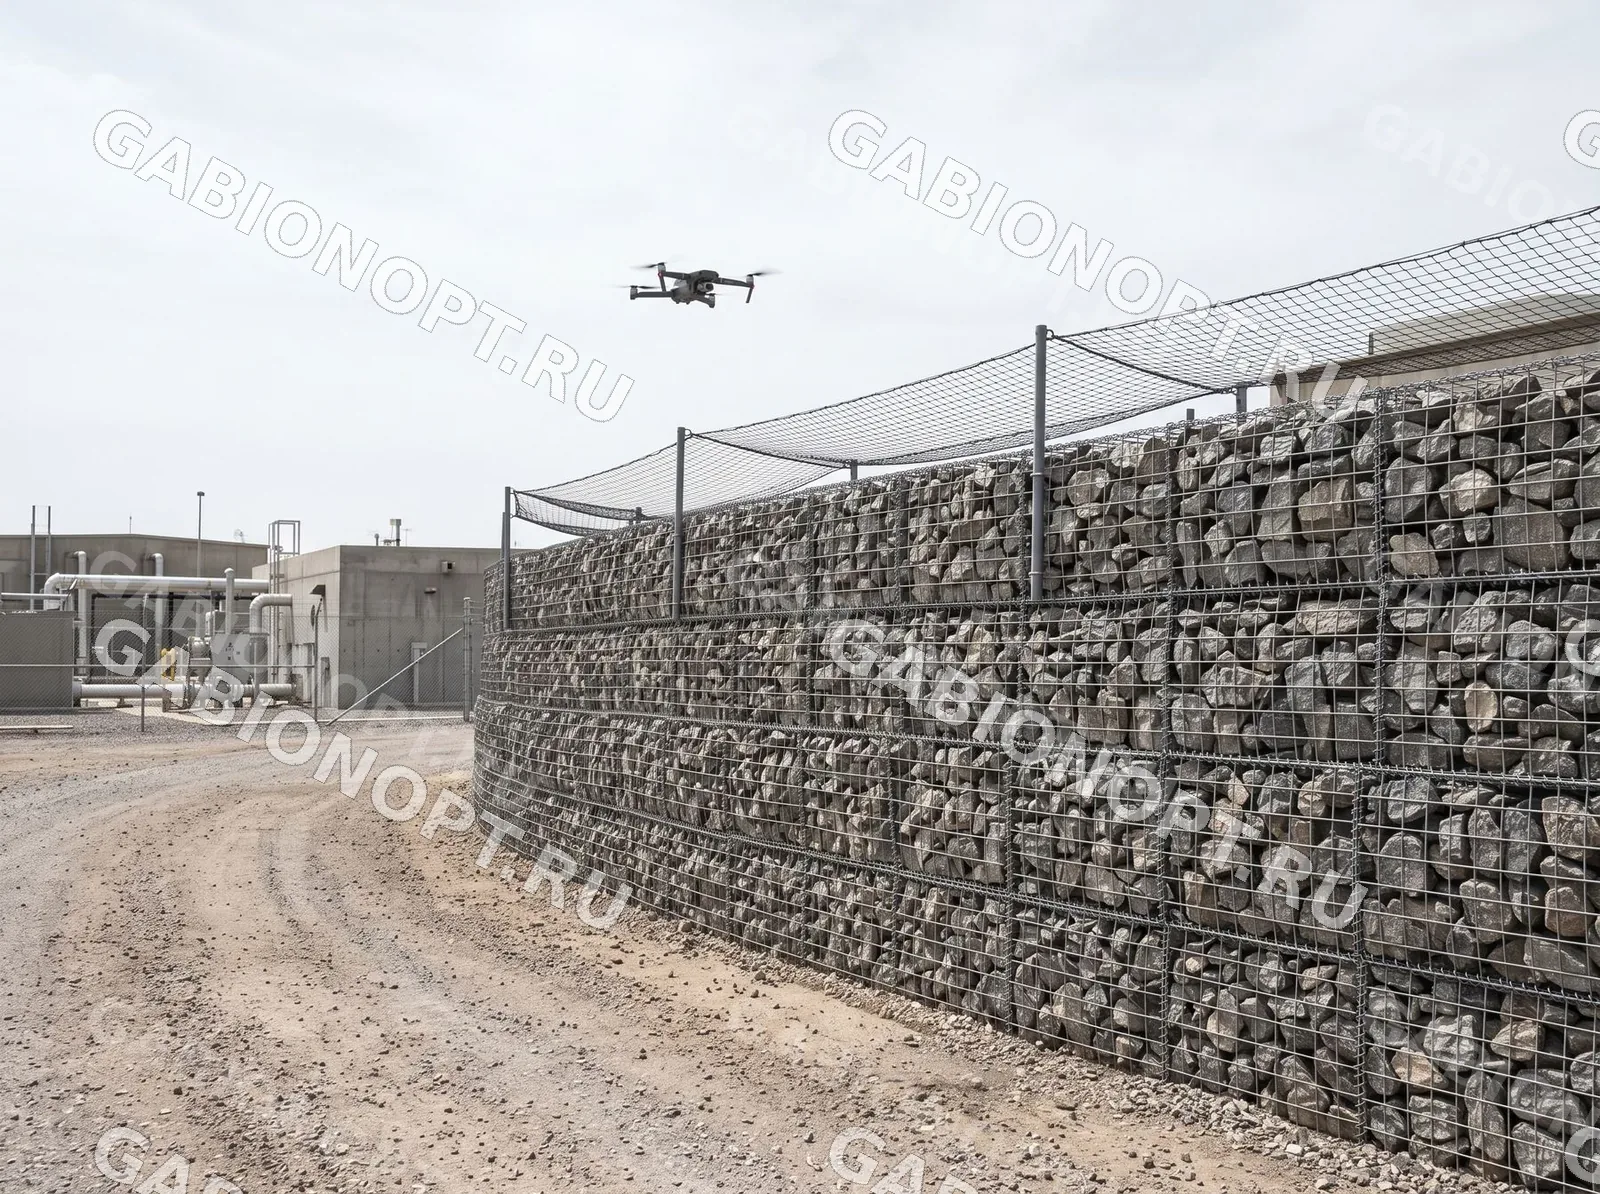
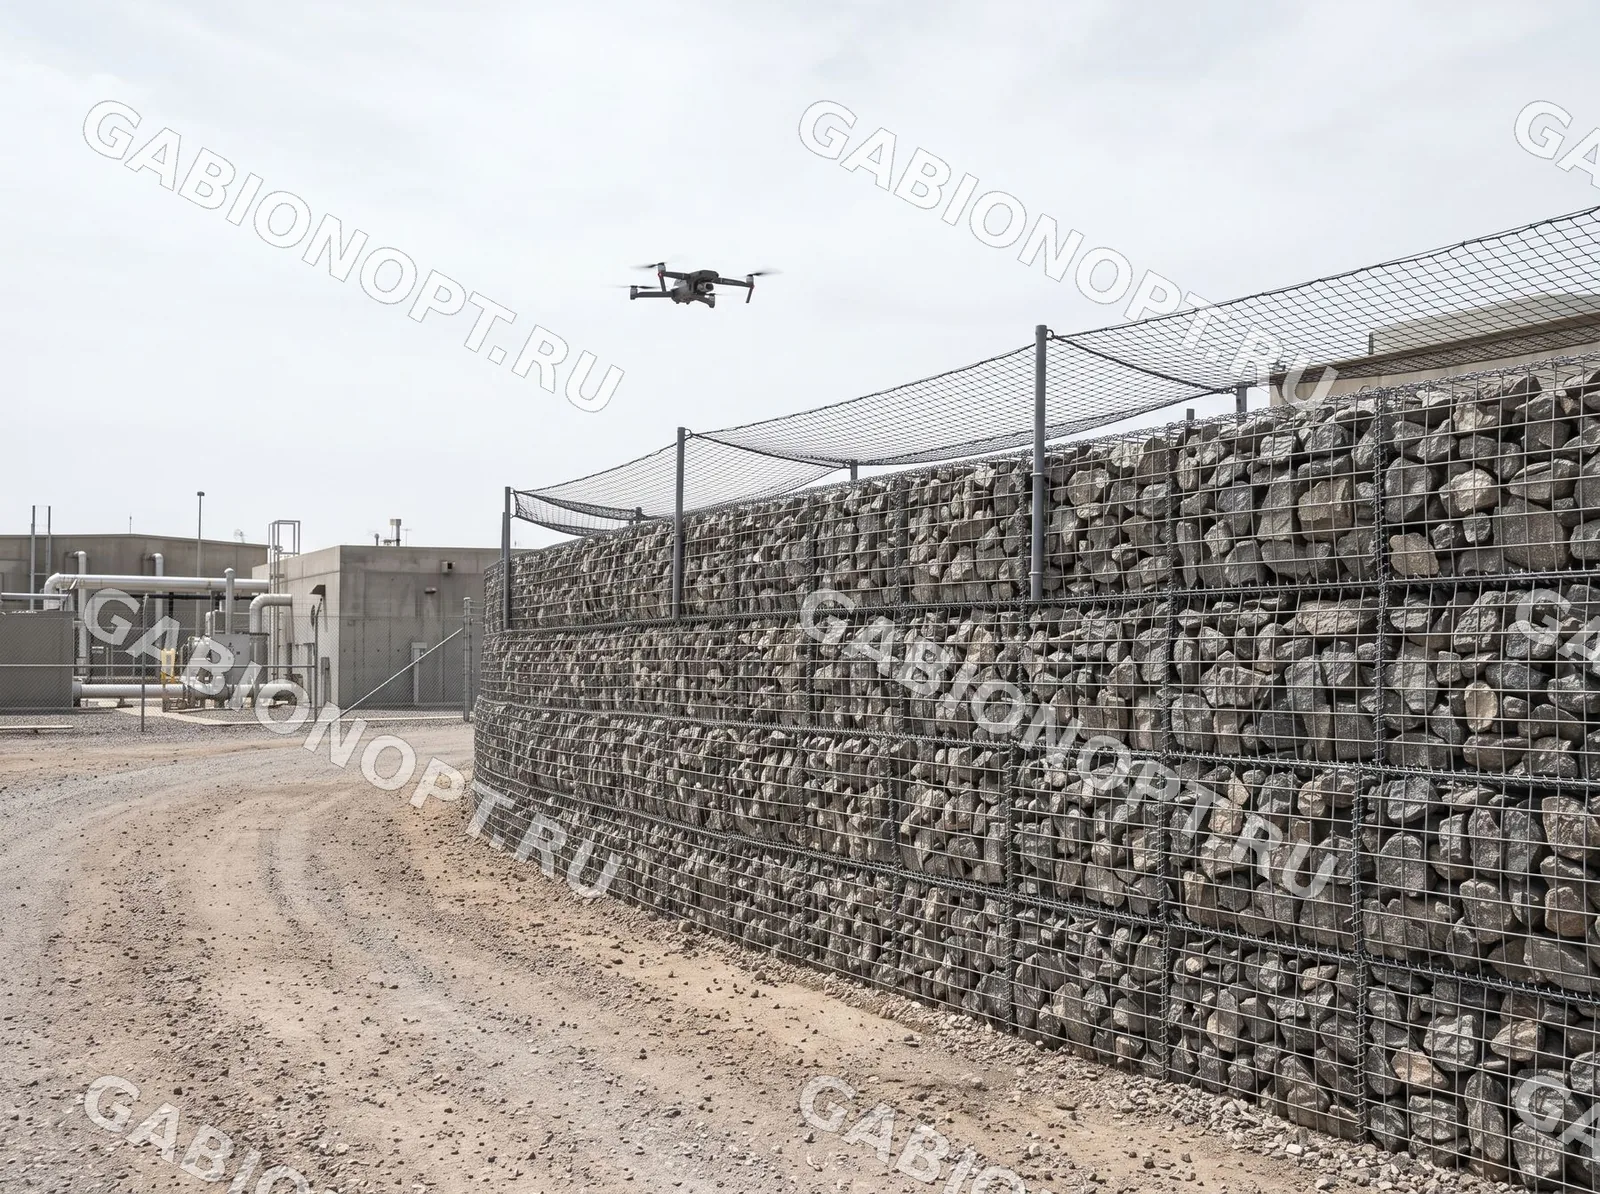
Fix double-watermark bug on setka photos, add photos for remaining 3 setka subcats (all 5 now covered)

diff --git a/assets/catalog.js b/assets/catalog.js
@@ -464,20 +464,22 @@
     "shestipryadnaya-svivka": { src: "images/rope-shestipryadnaya.png", alt: "Схема сечения троса шестипрядной свивки 6×7" }
   };
   var GABION_REF_PHOTOS = {
-    "nasypnogo-tipa": { src: "images/gabion-nasypnogo-tipa.webp?v=2", alt: "Габион насыпного типа — пустой каркас" },
-    "korobchatye-dvojnogo-krucheniya": { src: "images/gabion-korobchatye-dvojnogo-krucheniya.webp?v=2", alt: "Коробчатый габион двойного кручения с камнем" },
-    "cilindricheskie": { src: "images/gabion-cilindricheskie.webp?v=2", alt: "Цилиндрический габион — пустой каркас" },
-    "korobchatye-svarnye": { src: "images/gabion-korobchatye-svarnye.webp?v=2", alt: "Коробчатые сварные габионы" },
-    "s-armirujushchej-panelju": { src: "images/gabion-s-armirujushchej-panelju.webp?v=2", alt: "Габионы с армирующей панелью на объекте" },
-    "shary": { src: "images/gabion-shary.webp?v=2", alt: "Габион-шар" },
-    "kashpo": { src: "images/gabion-kashpo.webp?v=2", alt: "Габион-кашпо с растениями" },
-    "klumby": { src: "images/gabion-klumby.webp?v=2", alt: "Габион-клумба с цветами" },
-    "matrasno-tyufyachnye": { src: "images/gabion-matrasno-tyufyachnye.webp?v=2", alt: "Матрацно-тюфячный габион — пустой каркас" }
+    "nasypnogo-tipa": { src: "images/gabion-nasypnogo-tipa.webp?v=3", alt: "Габион насыпного типа — пустой каркас" },
+    "korobchatye-dvojnogo-krucheniya": { src: "images/gabion-korobchatye-dvojnogo-krucheniya.webp?v=3", alt: "Коробчатый габион двойного кручения с камнем" },
+    "cilindricheskie": { src: "images/gabion-cilindricheskie.webp?v=3", alt: "Цилиндрический габион — пустой каркас" },
+    "korobchatye-svarnye": { src: "images/gabion-korobchatye-svarnye.webp?v=3", alt: "Коробчатые сварные габионы" },
+    "s-armirujushchej-panelju": { src: "images/gabion-s-armirujushchej-panelju.webp?v=3", alt: "Габионы с армирующей панелью на объекте" },
+    "shary": { src: "images/gabion-shary.webp?v=3", alt: "Габион-шар" },
+    "kashpo": { src: "images/gabion-kashpo.webp?v=3", alt: "Габион-кашпо с растениями" },
+    "klumby": { src: "images/gabion-klumby.webp?v=3", alt: "Габион-клумба с цветами" },
+    "matrasno-tyufyachnye": { src: "images/gabion-matrasno-tyufyachnye.webp?v=3", alt: "Матрацно-тюфячный габион — пустой каркас" }
   };
   var SETKA_REF_PHOTOS = {
-    "ot-bpla": { src: "images/setka-ot-bpla-wm.webp?v=2", alt: "Защитная сетка от БПЛА над габионной конструкцией" },
-    "protivokamnepadnye": { src: "images/setka-protivokamnepadnye-wm.webp?v=2", alt: "Противокамнепадный барьер из стального троса и сетки на склоне" },
-    "dvojnogo-krucheniya": { src: "images/setka-dvojnogo-krucheniya-wm.webp?v=2", alt: "Сетка двойного кручения, крупный план плетения" }
+    "ot-bpla": { src: "images/setka-ot-bpla-wm.webp?v=3", alt: "Защитная сетка от БПЛА над габионной конструкцией" },
+    "protivokamnepadnye": { src: "images/setka-protivokamnepadnye-wm.webp?v=3", alt: "Противокамнепадный барьер из стального троса и сетки на склоне" },
+    "dvojnogo-krucheniya": { src: "images/setka-dvojnogo-krucheniya-wm.webp?v=4", alt: "Рулоны сетки двойного кручения" },
+    "setka-mane": { src: "images/setka-setka-mane-wm.webp?v=4", alt: "Рулоны сетки Манье" },
+    "svarnaya-v-kartah": { src: "images/setka-svarnaya-v-kartah-wm.webp?v=4", alt: "Сварная сетка в картах, стопка" }
   };
   function refPhoto(p) {
     if (p.group === "trosy") return ROPE_DIAGRAMS[p.subcat] || null;

diff --git a/catalog.html b/catalog.html
@@ -19,7 +19,7 @@
 <link rel="preconnect" href="https://fonts.googleapis.com">
 <link rel="preconnect" href="https://fonts.gstatic.com" crossorigin>
 <link href="https://fonts.googleapis.com/css2?family=Golos+Text:wght@400;500;600;700;800&family=JetBrains+Mono:wght@400;500;600&display=swap" rel="stylesheet">
-<link rel="stylesheet" href="assets/style.css?v=36">
+<link rel="stylesheet" href="assets/style.css?v=38">
 <script type="application/ld+json">
 {
   "@context": "https://schema.org",
@@ -305,8 +305,8 @@
   <button type="button" class="btn btn-primary btn-sm" id="cookieAccept">Понятно</button>
 </div>
 
-<script src="assets/nav.js?v=36"></script>
-<script src="assets/catalog.js?v=36"></script>
+<script src="assets/nav.js?v=38"></script>
+<script src="assets/catalog.js?v=38"></script>
 <script>
 (function () {
   "use strict";

diff --git a/primenenie.html b/primenenie.html
@@ -18,7 +18,7 @@
 <link rel="preconnect" href="https://fonts.googleapis.com">
 <link rel="preconnect" href="https://fonts.gstatic.com" crossorigin>
 <link href="https://fonts.googleapis.com/css2?family=Golos+Text:wght@400;500;600;700;800&family=JetBrains+Mono:wght@400;500;600&display=swap" rel="stylesheet">
-<link rel="stylesheet" href="assets/style.css?v=36">
+<link rel="stylesheet" href="assets/style.css?v=38">
 <!-- Yandex.Metrika counter -->
 <script type="text/javascript">
     (function(m,e,t,r,i,k,a){
@@ -356,7 +356,7 @@
   <button type="button" class="btn btn-primary btn-sm" id="cookieAccept">Понятно</button>
 </div>
 
-<script src="assets/nav.js?v=36"></script>
+<script src="assets/nav.js?v=38"></script>
 <script>
 (function () {
   "use strict";

diff --git a/production.html b/production.html
@@ -18,7 +18,7 @@
 <link rel="preconnect" href="https://fonts.googleapis.com">
 <link rel="preconnect" href="https://fonts.gstatic.com" crossorigin>
 <link href="https://fonts.googleapis.com/css2?family=Golos+Text:wght@400;500;600;700;800&family=JetBrains+Mono:wght@400;500;600&display=swap" rel="stylesheet">
-<link rel="stylesheet" href="assets/style.css?v=36">
+<link rel="stylesheet" href="assets/style.css?v=38">
 <!-- Yandex.Metrika counter -->
 <script type="text/javascript">
     (function(m,e,t,r,i,k,a){
@@ -275,7 +275,7 @@
   <button type="button" class="btn btn-primary btn-sm" id="cookieAccept">Понятно</button>
 </div>
 
-<script src="assets/nav.js?v=36"></script>
+<script src="assets/nav.js?v=38"></script>
 <script>
 (function () {
   "use strict";

diff --git a/index.html b/index.html
@@ -22,7 +22,7 @@
 <link rel="preconnect" href="https://fonts.googleapis.com">
 <link rel="preconnect" href="https://fonts.gstatic.com" crossorigin>
 <link href="https://fonts.googleapis.com/css2?family=Golos+Text:wght@400;500;600;700;800&family=JetBrains+Mono:wght@400;500;600&display=swap" rel="stylesheet">
-<link rel="stylesheet" href="assets/style.css?v=36">
+<link rel="stylesheet" href="assets/style.css?v=38">
 
 <script type="application/ld+json">
 {
@@ -440,7 +440,7 @@
   <button type="button" class="btn btn-primary btn-sm" id="cookieAccept">Понятно</button>
 </div>
 
-<script src="assets/nav.js?v=36"></script>
+<script src="assets/nav.js?v=38"></script>
 <script>
   var allSelectOptions = [];
 

diff --git a/privacy-policy.html b/privacy-policy.html
@@ -10,7 +10,7 @@
 <link rel="preconnect" href="https://fonts.googleapis.com">
 <link rel="preconnect" href="https://fonts.gstatic.com" crossorigin>
 <link href="https://fonts.googleapis.com/css2?family=Golos+Text:wght@400;500;600;700;800&family=JetBrains+Mono:wght@400;500;600&display=swap" rel="stylesheet">
-<link rel="stylesheet" href="assets/style.css?v=36">
+<link rel="stylesheet" href="assets/style.css?v=38">
 </head>
 <body>
 
@@ -92,6 +92,6 @@
   </div>
 </footer>
 
-<script src="assets/nav.js?v=36"></script>
+<script src="assets/nav.js?v=38"></script>
 </body>
 </html>

diff --git a/rekvizity.html b/rekvizity.html
@@ -10,7 +10,7 @@
 <link rel="preconnect" href="https://fonts.googleapis.com">
 <link rel="preconnect" href="https://fonts.gstatic.com" crossorigin>
 <link href="https://fonts.googleapis.com/css2?family=Golos+Text:wght@400;500;600;700;800&family=JetBrains+Mono:wght@400;500;600&display=swap" rel="stylesheet">
-<link rel="stylesheet" href="assets/style.css?v=36">
+<link rel="stylesheet" href="assets/style.css?v=38">
 </head>
 <body>
 
@@ -83,6 +83,6 @@
   </div>
 </footer>
 
-<script src="assets/nav.js?v=36"></script>
+<script src="assets/nav.js?v=38"></script>
 </body>
 </html>
